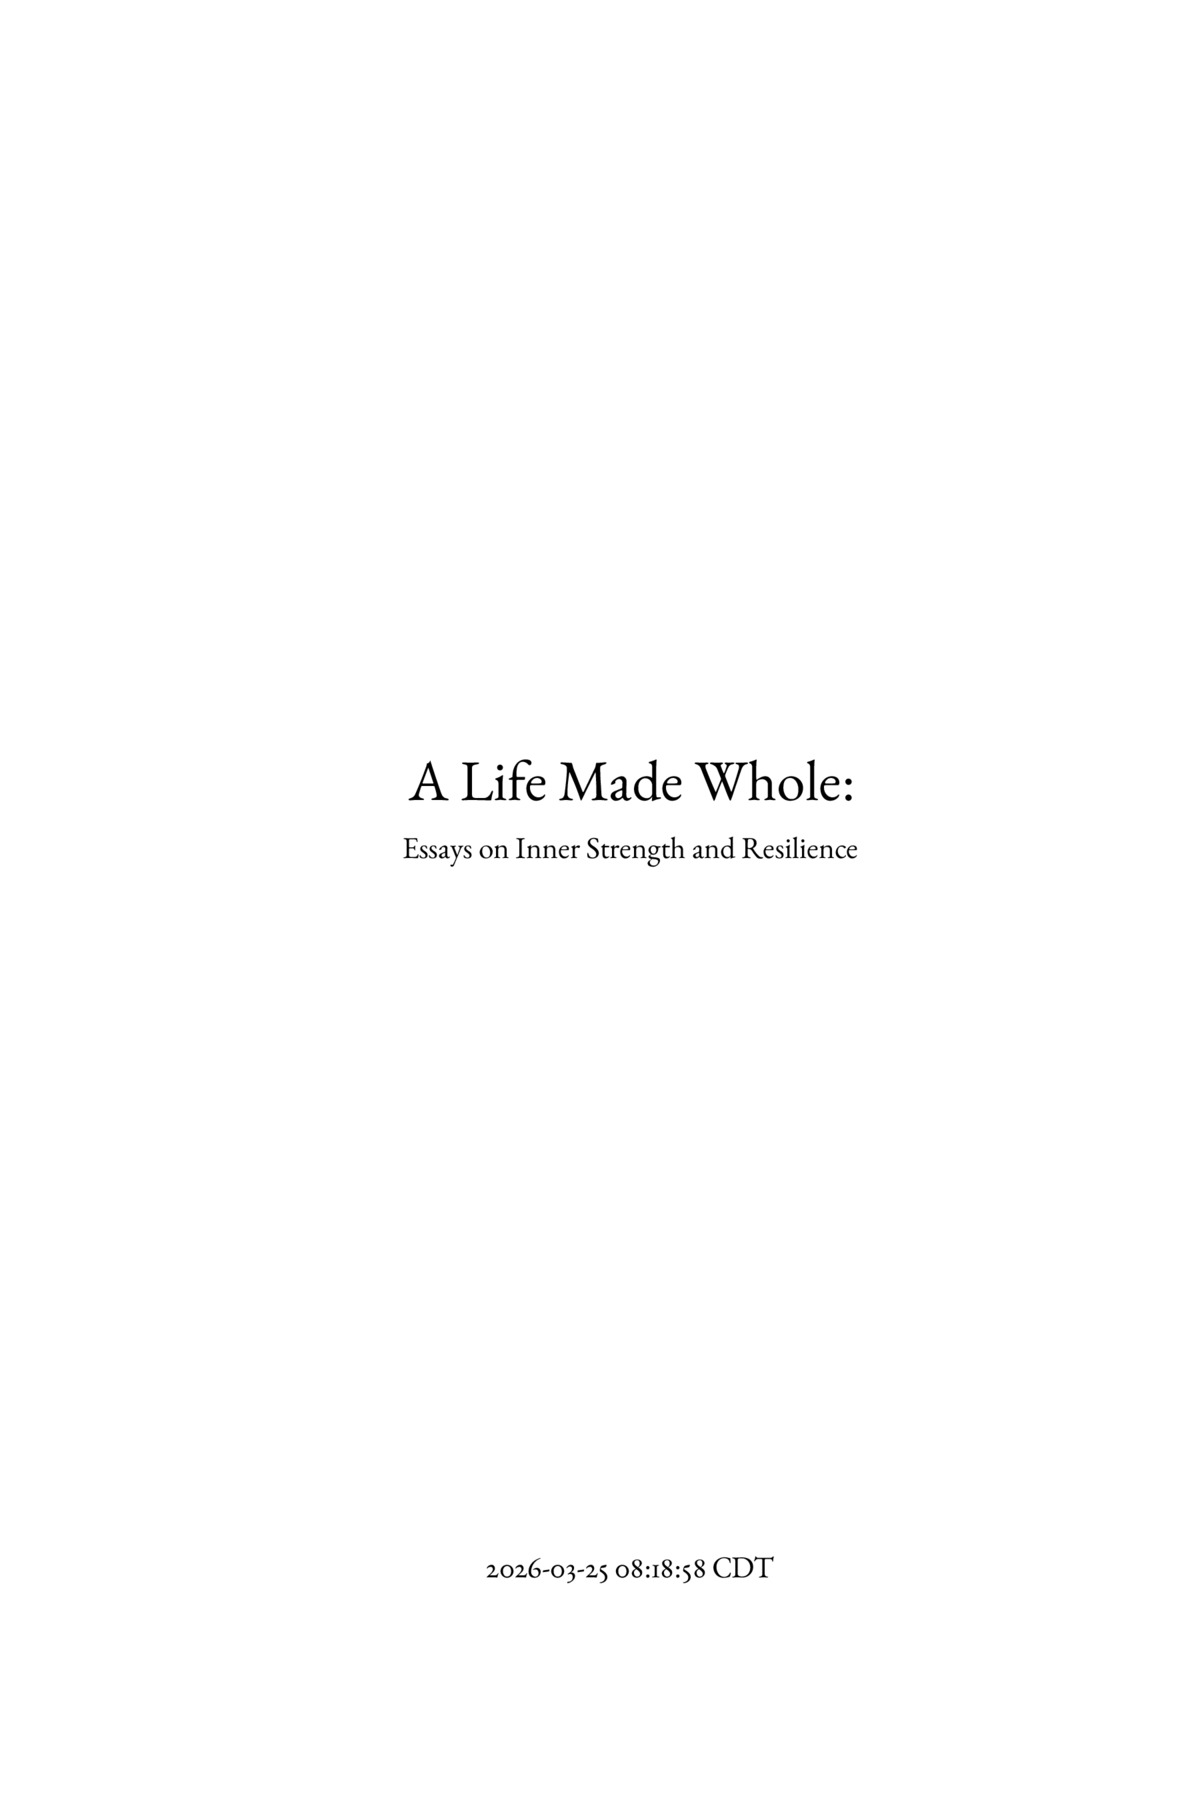
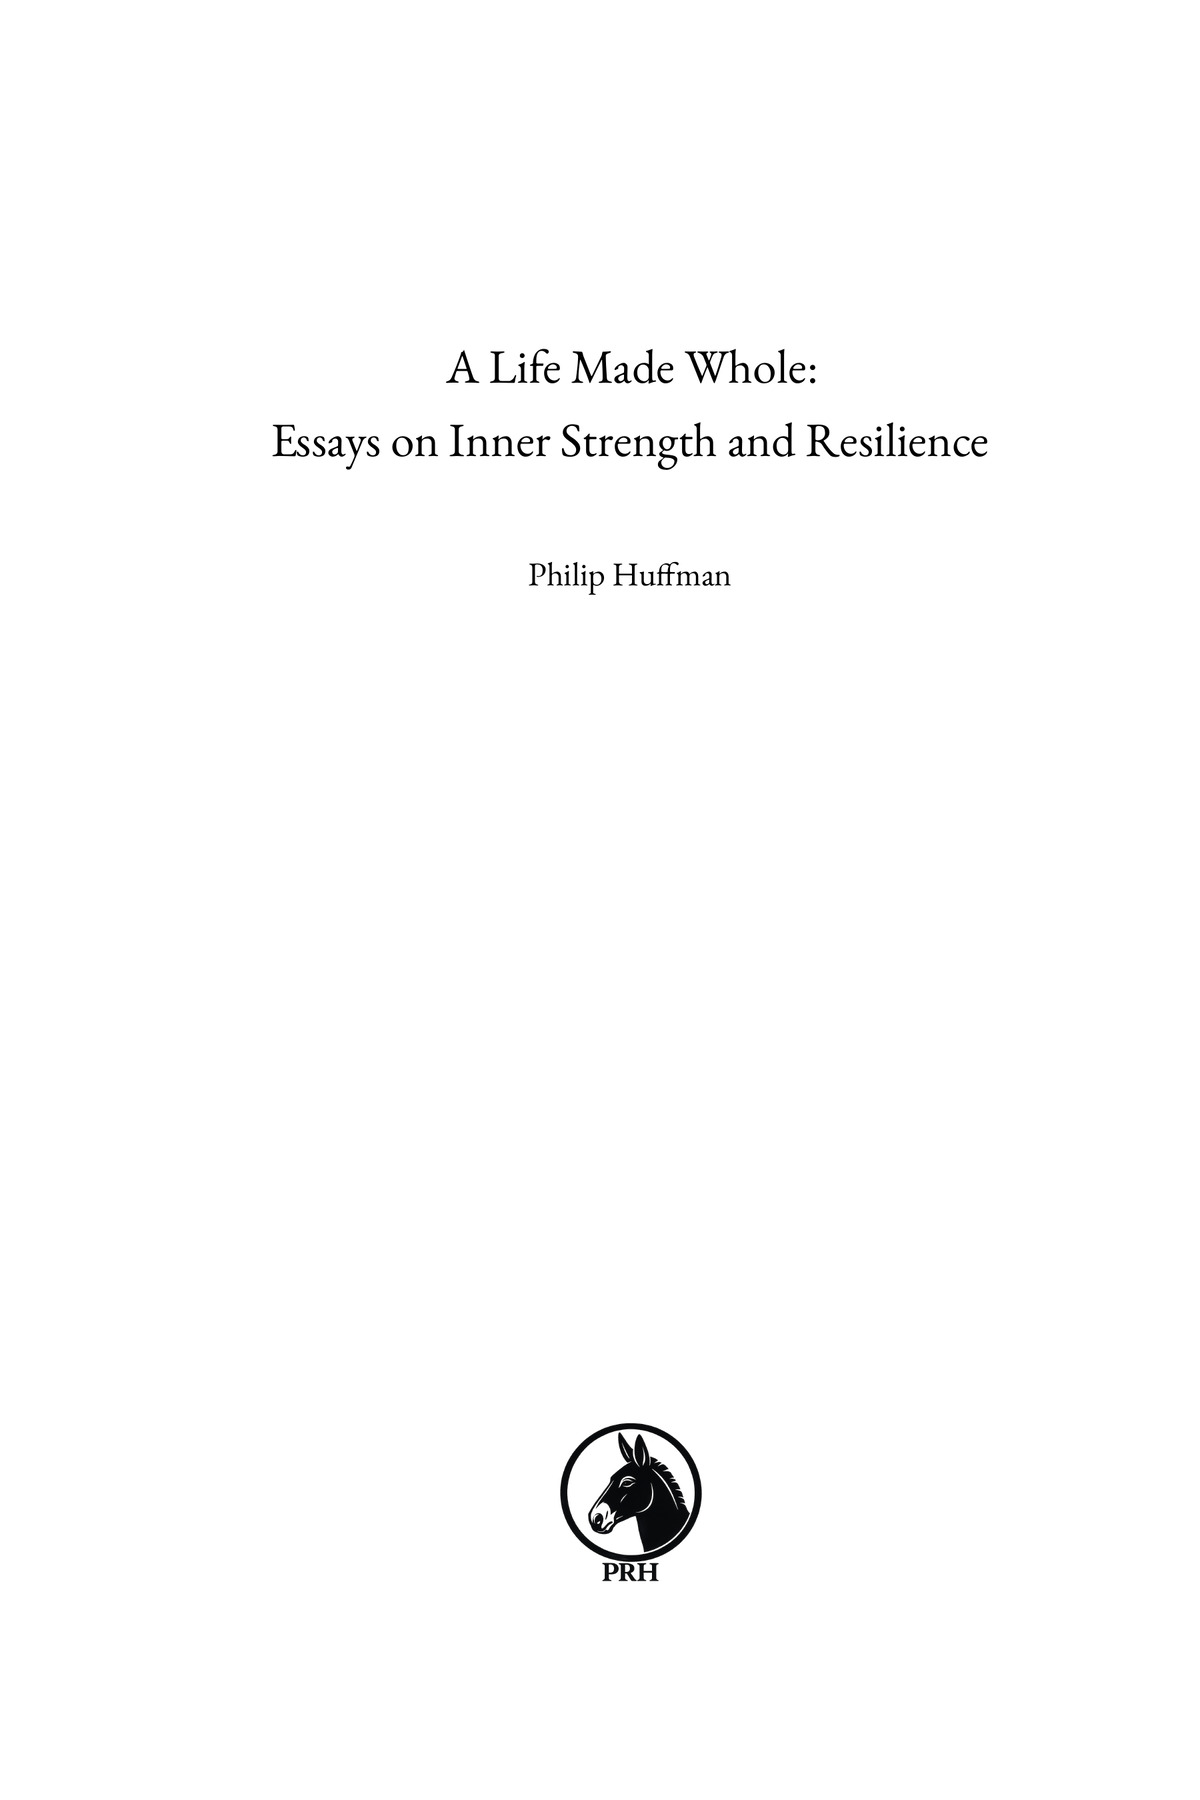
fix(covers): remove compilation timestamps from book covers
- Extract title page (page 3) instead of compilation page (page 1) from print PDFs
- Page 1 contained 'Compiled: YYYY-MM-DD HH:MM:SS' timestamps across most books
- Page 3 shows clean title page with book title + author name only
- Updated _index.md reference: on-proportion.png → .jpg
- All 8 covers regenerated at 1200px width, high-quality JPEG

diff --git a/content/books/_index.md b/content/books/_index.md
@@ -12,5 +12,5 @@ The following is a comprehensive list of my books, exploring the intersections o
 {{< book title="Misaligned" link="/books/misaligned/" subtitle="Right Subject, Wrong Adjective, Disastrous Result" img="/img/books/misaligned.jpg" >}}
 {{< book title="Letters" link="/books/letters/" subtitle="Truth Without Outcome" img="/img/books/letters.jpg" >}}
 {{< book title="Stoic Backgammon" link="/books/stoic-backgammon/" subtitle="Finding equilibrium through the game of chance." img="/img/books/stoic-backgammon.jpg" >}}
-{{< book title="On Proportion" link="/books/on-proportion/" subtitle="Balance and measure in the intellectual life." img="/img/books/on-proportion.png" >}}
+{{< book title="On Proportion" link="/books/on-proportion/" subtitle="Balance and measure in the intellectual life." img="/img/books/on-proportion.jpg" >}}
 {{< book title="Raise'm Right" link="/books/raisem-right/" subtitle="With Critical Thinking and Healthy Skepticism." >}}
